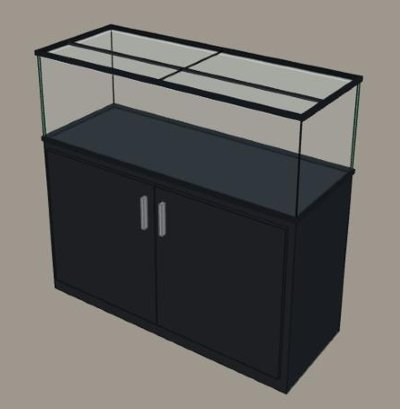
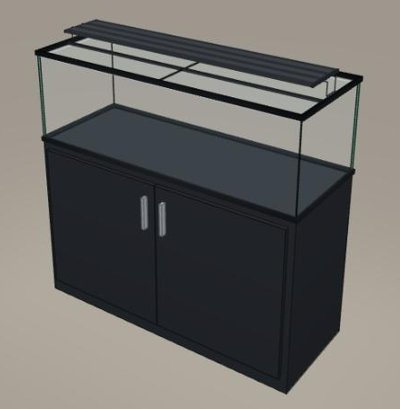
Lane KD: deal scenes include the bundled LED light; card snapshots show it

Changed region(s): [[0.15, 0.0293, 0.84, 0.2347], [0.12, 0.5868, 0.15, 0.6748], [0.39, 0.8215, 0.42, 0.8509]]

diff --git a/src/data/deals.ts b/src/data/deals.ts
@@ -20,7 +20,7 @@ export interface Deal {
   filter?: FilterSpec;
   heater?: { watts: number };
   /** the stand as pictured on the listing (default black cabinet) and the lid type (default: hood when a lid is included) */
-  look?: { style?: 'cabinet' | 'frame'; finish?: 'black' | 'white' | 'oak'; lid?: 'glass' | 'hood' | 'mesh' };
+  look?: { style?: 'cabinet' | 'frame'; finish?: 'black' | 'white' | 'oak'; lid?: 'glass' | 'hood' | 'mesh'; /** light wattage when the listing gives it (else the budget-tier default for the tank size) */ lightW?: number };
   price: { usd: number; /** list price before the sale */ regularUsd?: number };
   /** ISO date the sale ends, when the listing says */
   saleEnds?: string;

diff --git a/src/demand/dealscene.ts b/src/demand/dealscene.ts
@@ -18,6 +18,9 @@ export function sceneFromDeal(d: Deal): Scene | undefined {
   S.lid = d.includes.includes('lid') ? d.look?.lid ?? 'hood' : 'open';
   const k = d.kit ? kitById(d.kit) : undefined;
   if (k) { S = applyKitLight(S, k as never); S.lid = k.lid; }
+  else if (d.includes.includes('light')) { // a bundled LED (listings rarely give watts: the budget-tier default for this tank size stands in, flagged 'guess')
+    S = applyKitLight(S, { light: { type: 'led', tech: 'led-white', count: 1, watts: d.look?.lightW ?? null, spec: d.look?.lightW ? 'listing' : 'guess' }, lid: S.lid, tier: 'budget', tankRatedGal: d.gal });
+  }
   sc.tanks[0] = S; sc.name = `${d.retailer} ${d.name}`;
   return sc;
 }

diff --git a/test/demand.test.ts b/test/demand.test.ts
@@ -157,3 +157,14 @@ describe('percent off (lane KD)', () => {
     expect(pctOff(d(100, 100))).toBeUndefined();
   });
 });
+
+describe('deal scene light (lane KD)', () => {
+  it('a bundle with a light gets an LED bar in the scene; its watts feed the power use', async () => {
+    const { sceneFromDeal } = await import('../src/demand/dealscene');
+    const { DEALS } = await import('../src/data/deals');
+    const d = DEALS.find(x => x.tank && x.includes.includes('light'))!;
+    const L = sceneFromDeal(d)!.tanks[0].light;
+    expect(L.type).toBe('led');
+    expect(L.tech).toBe('led-white');
+  });
+});
